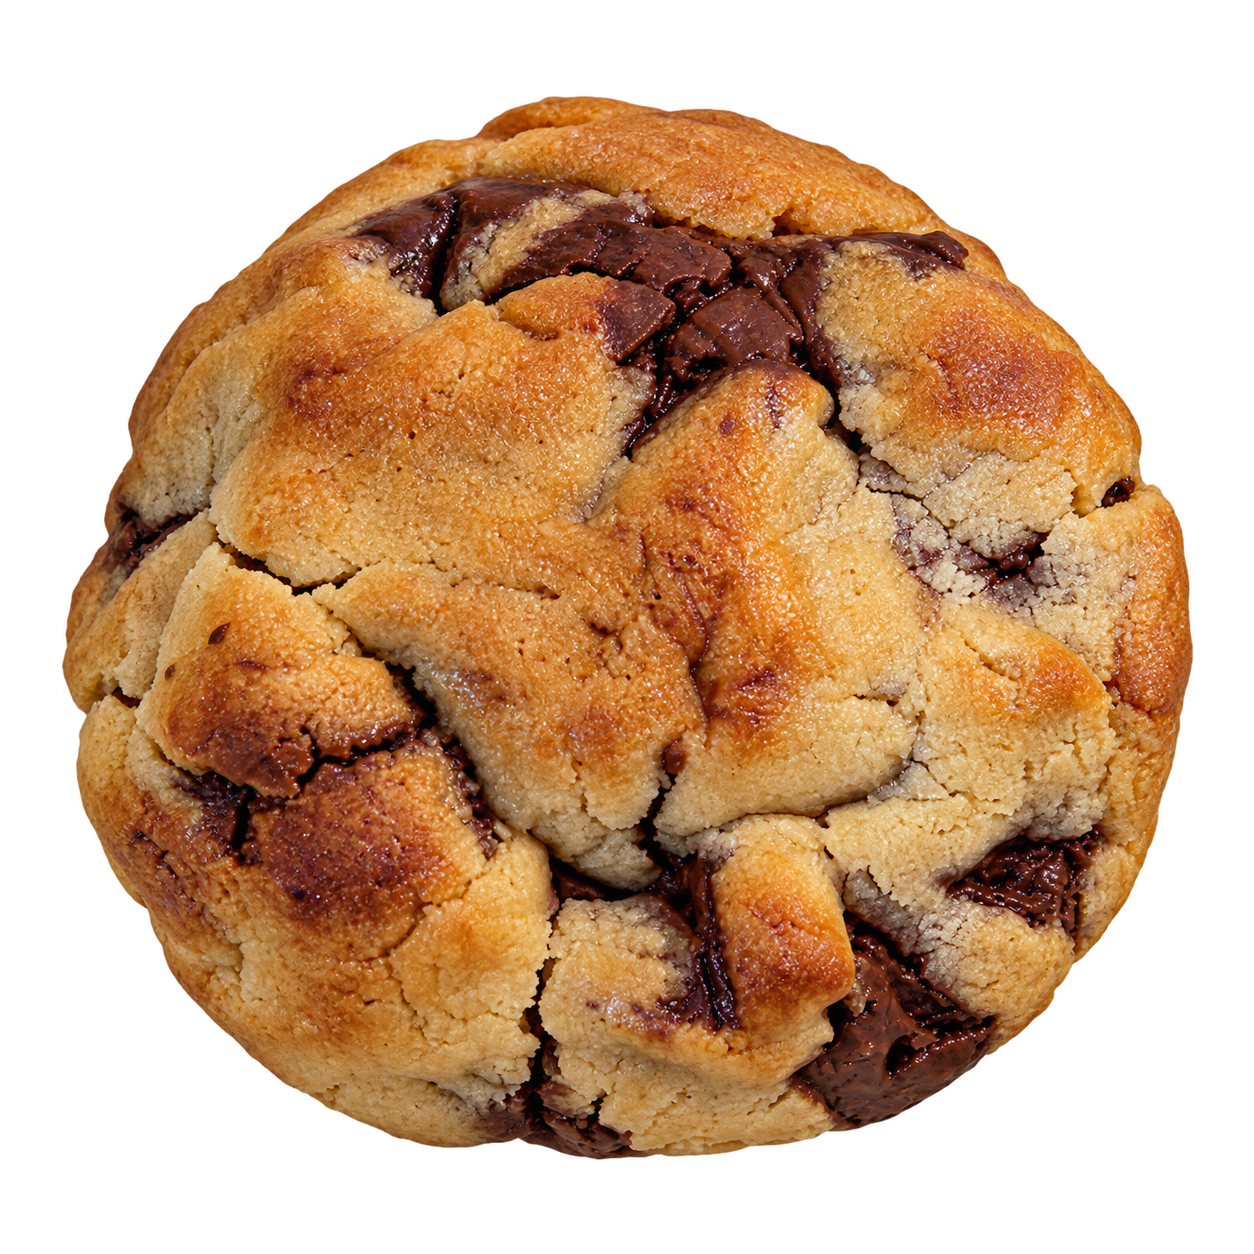
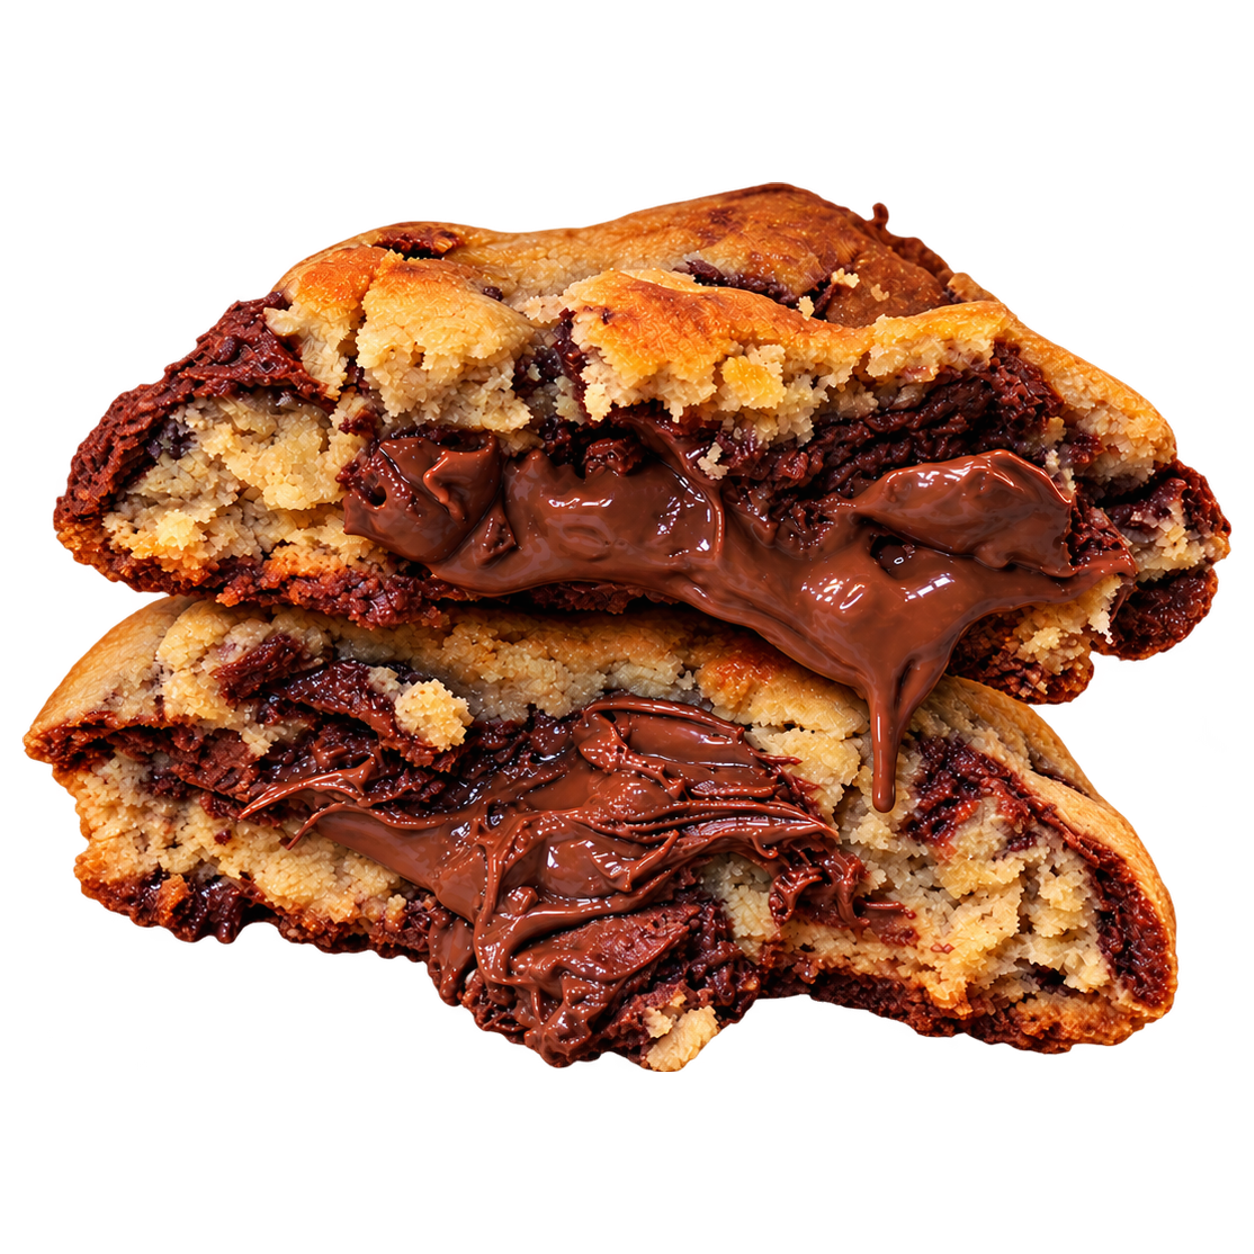
cookie nutella

diff --git a/src/lib/site.ts b/src/lib/site.ts
@@ -85,7 +85,7 @@ export const categories: Category[] = [
         description: "Massa tradicional, gotas de chocolate ao leite e recheio de avelã",
         price: "R$ 15,00",
         image: {
-          src: "/cardapio/Cookie com Nutella.png",
+          src: "/cardapio/cookie nutella.png",
           width: 1254,
           height: 1254,
         },
